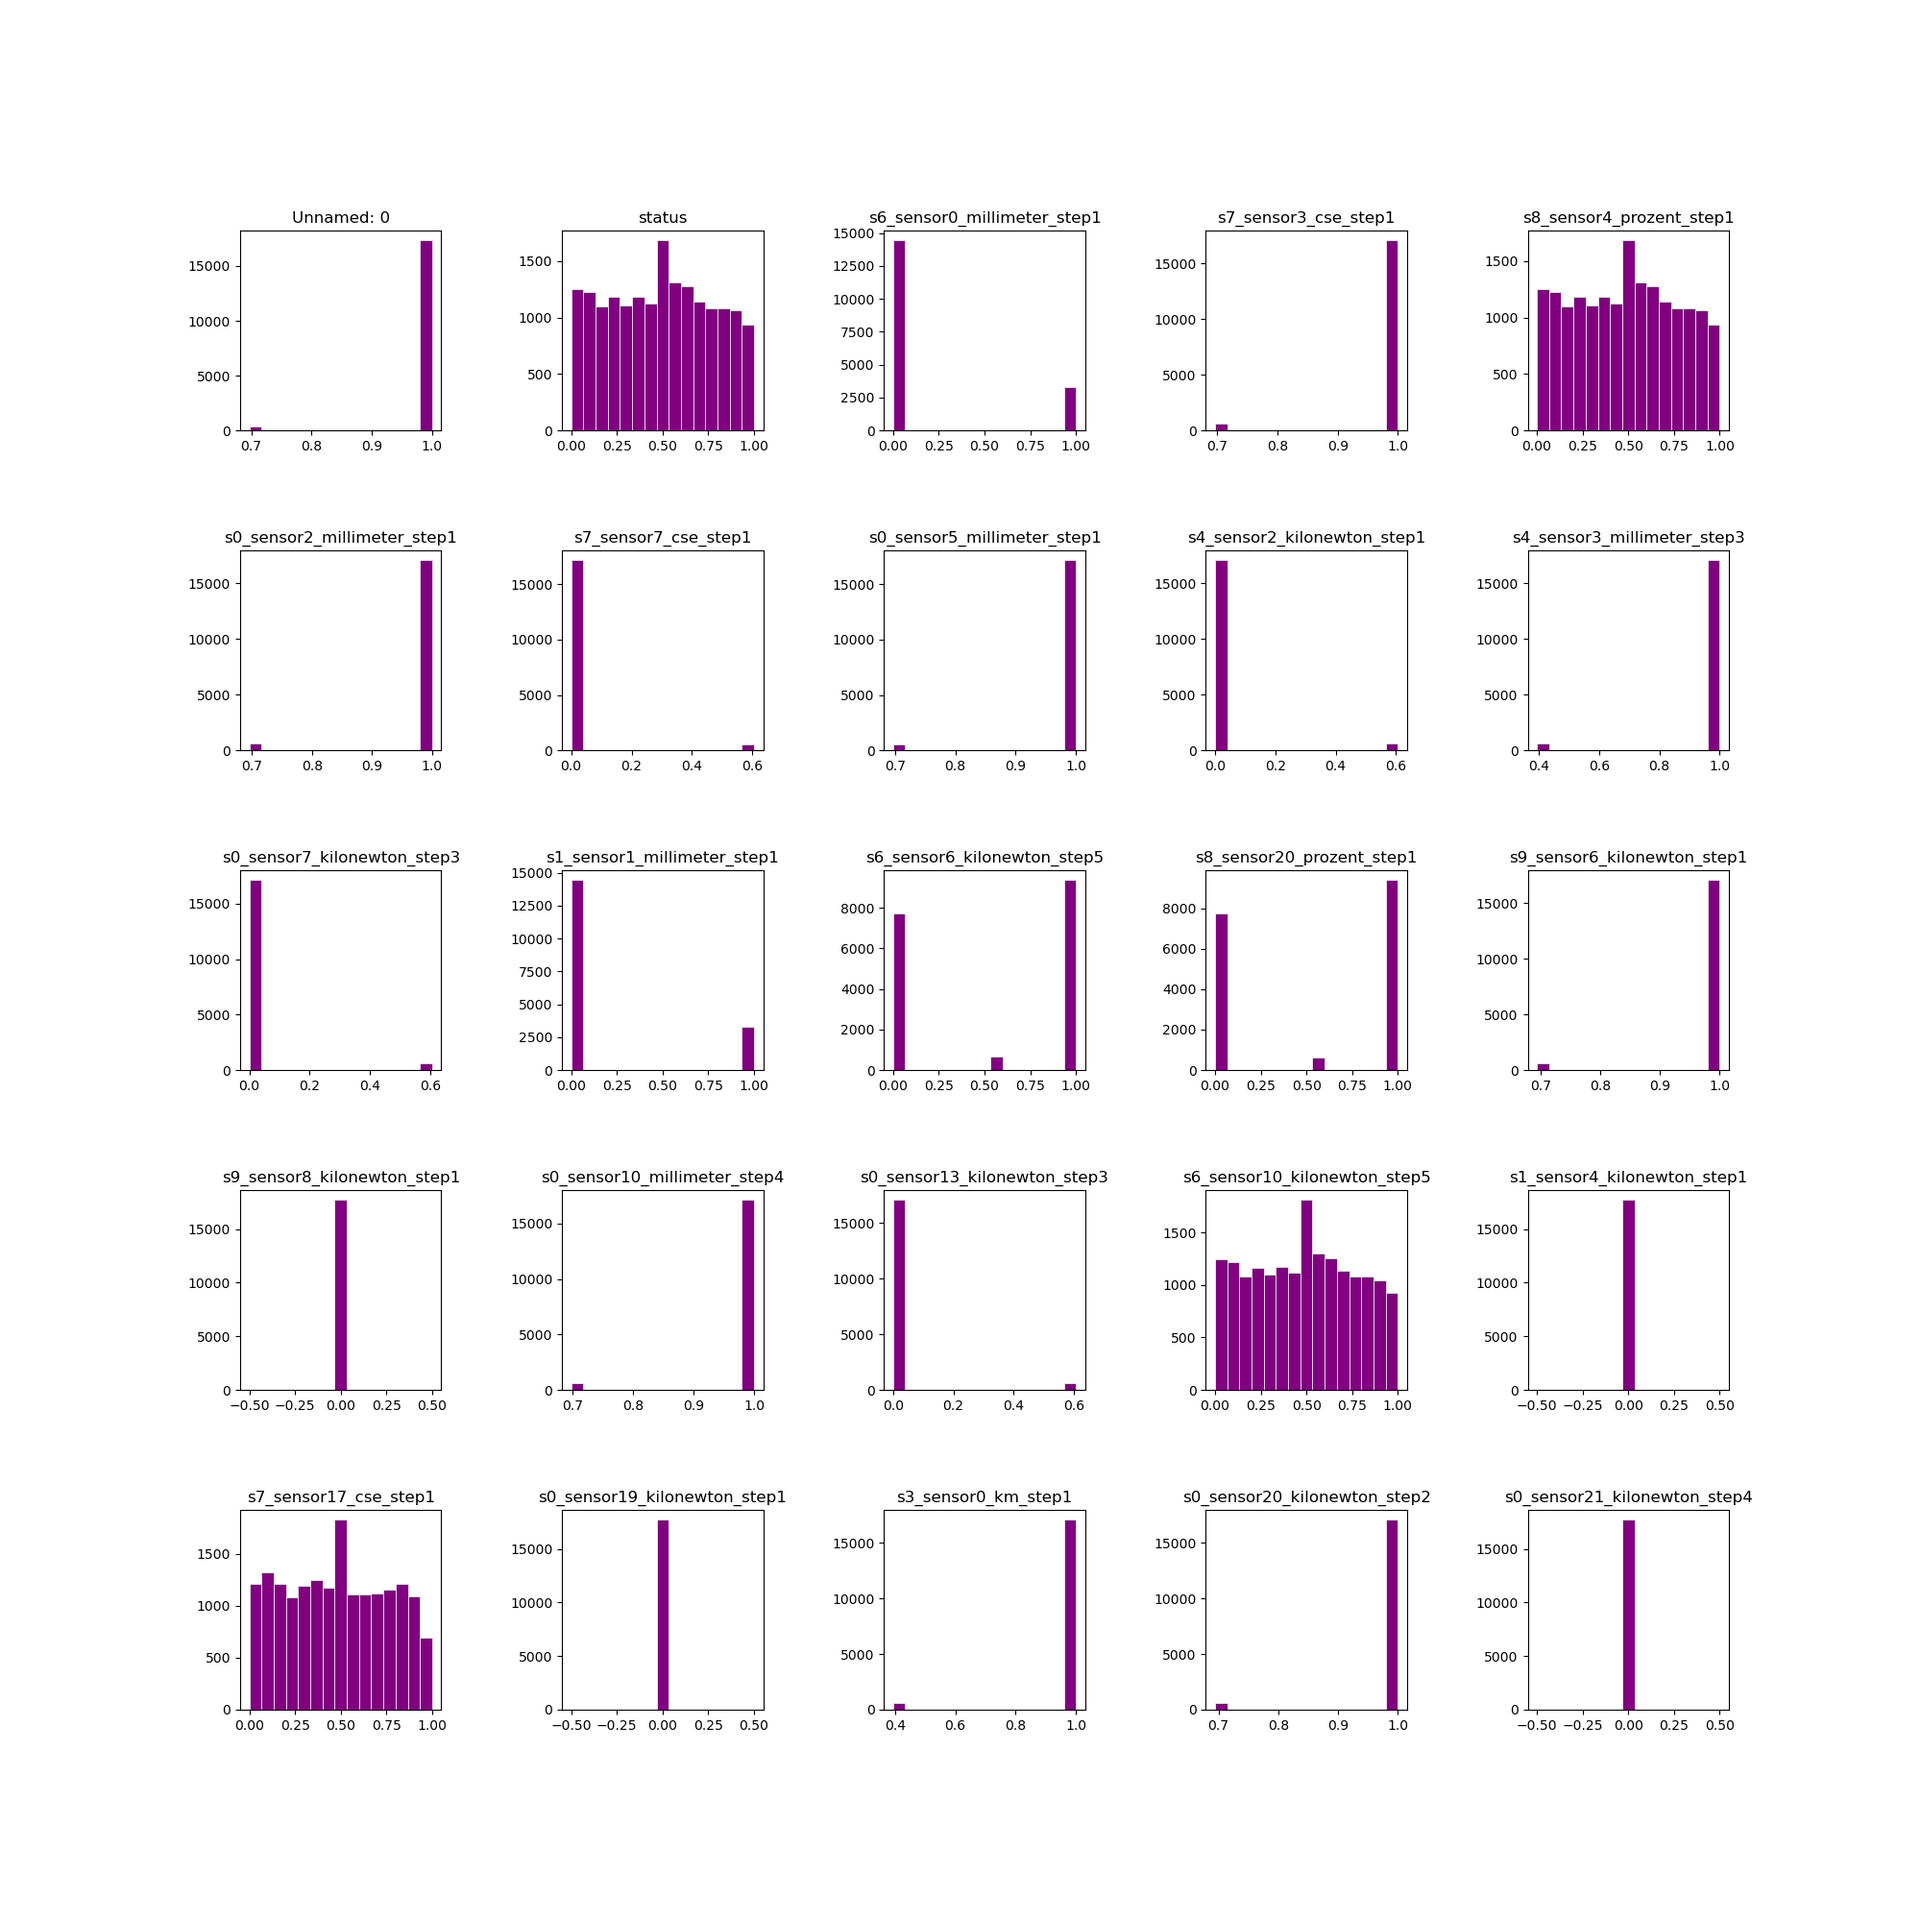
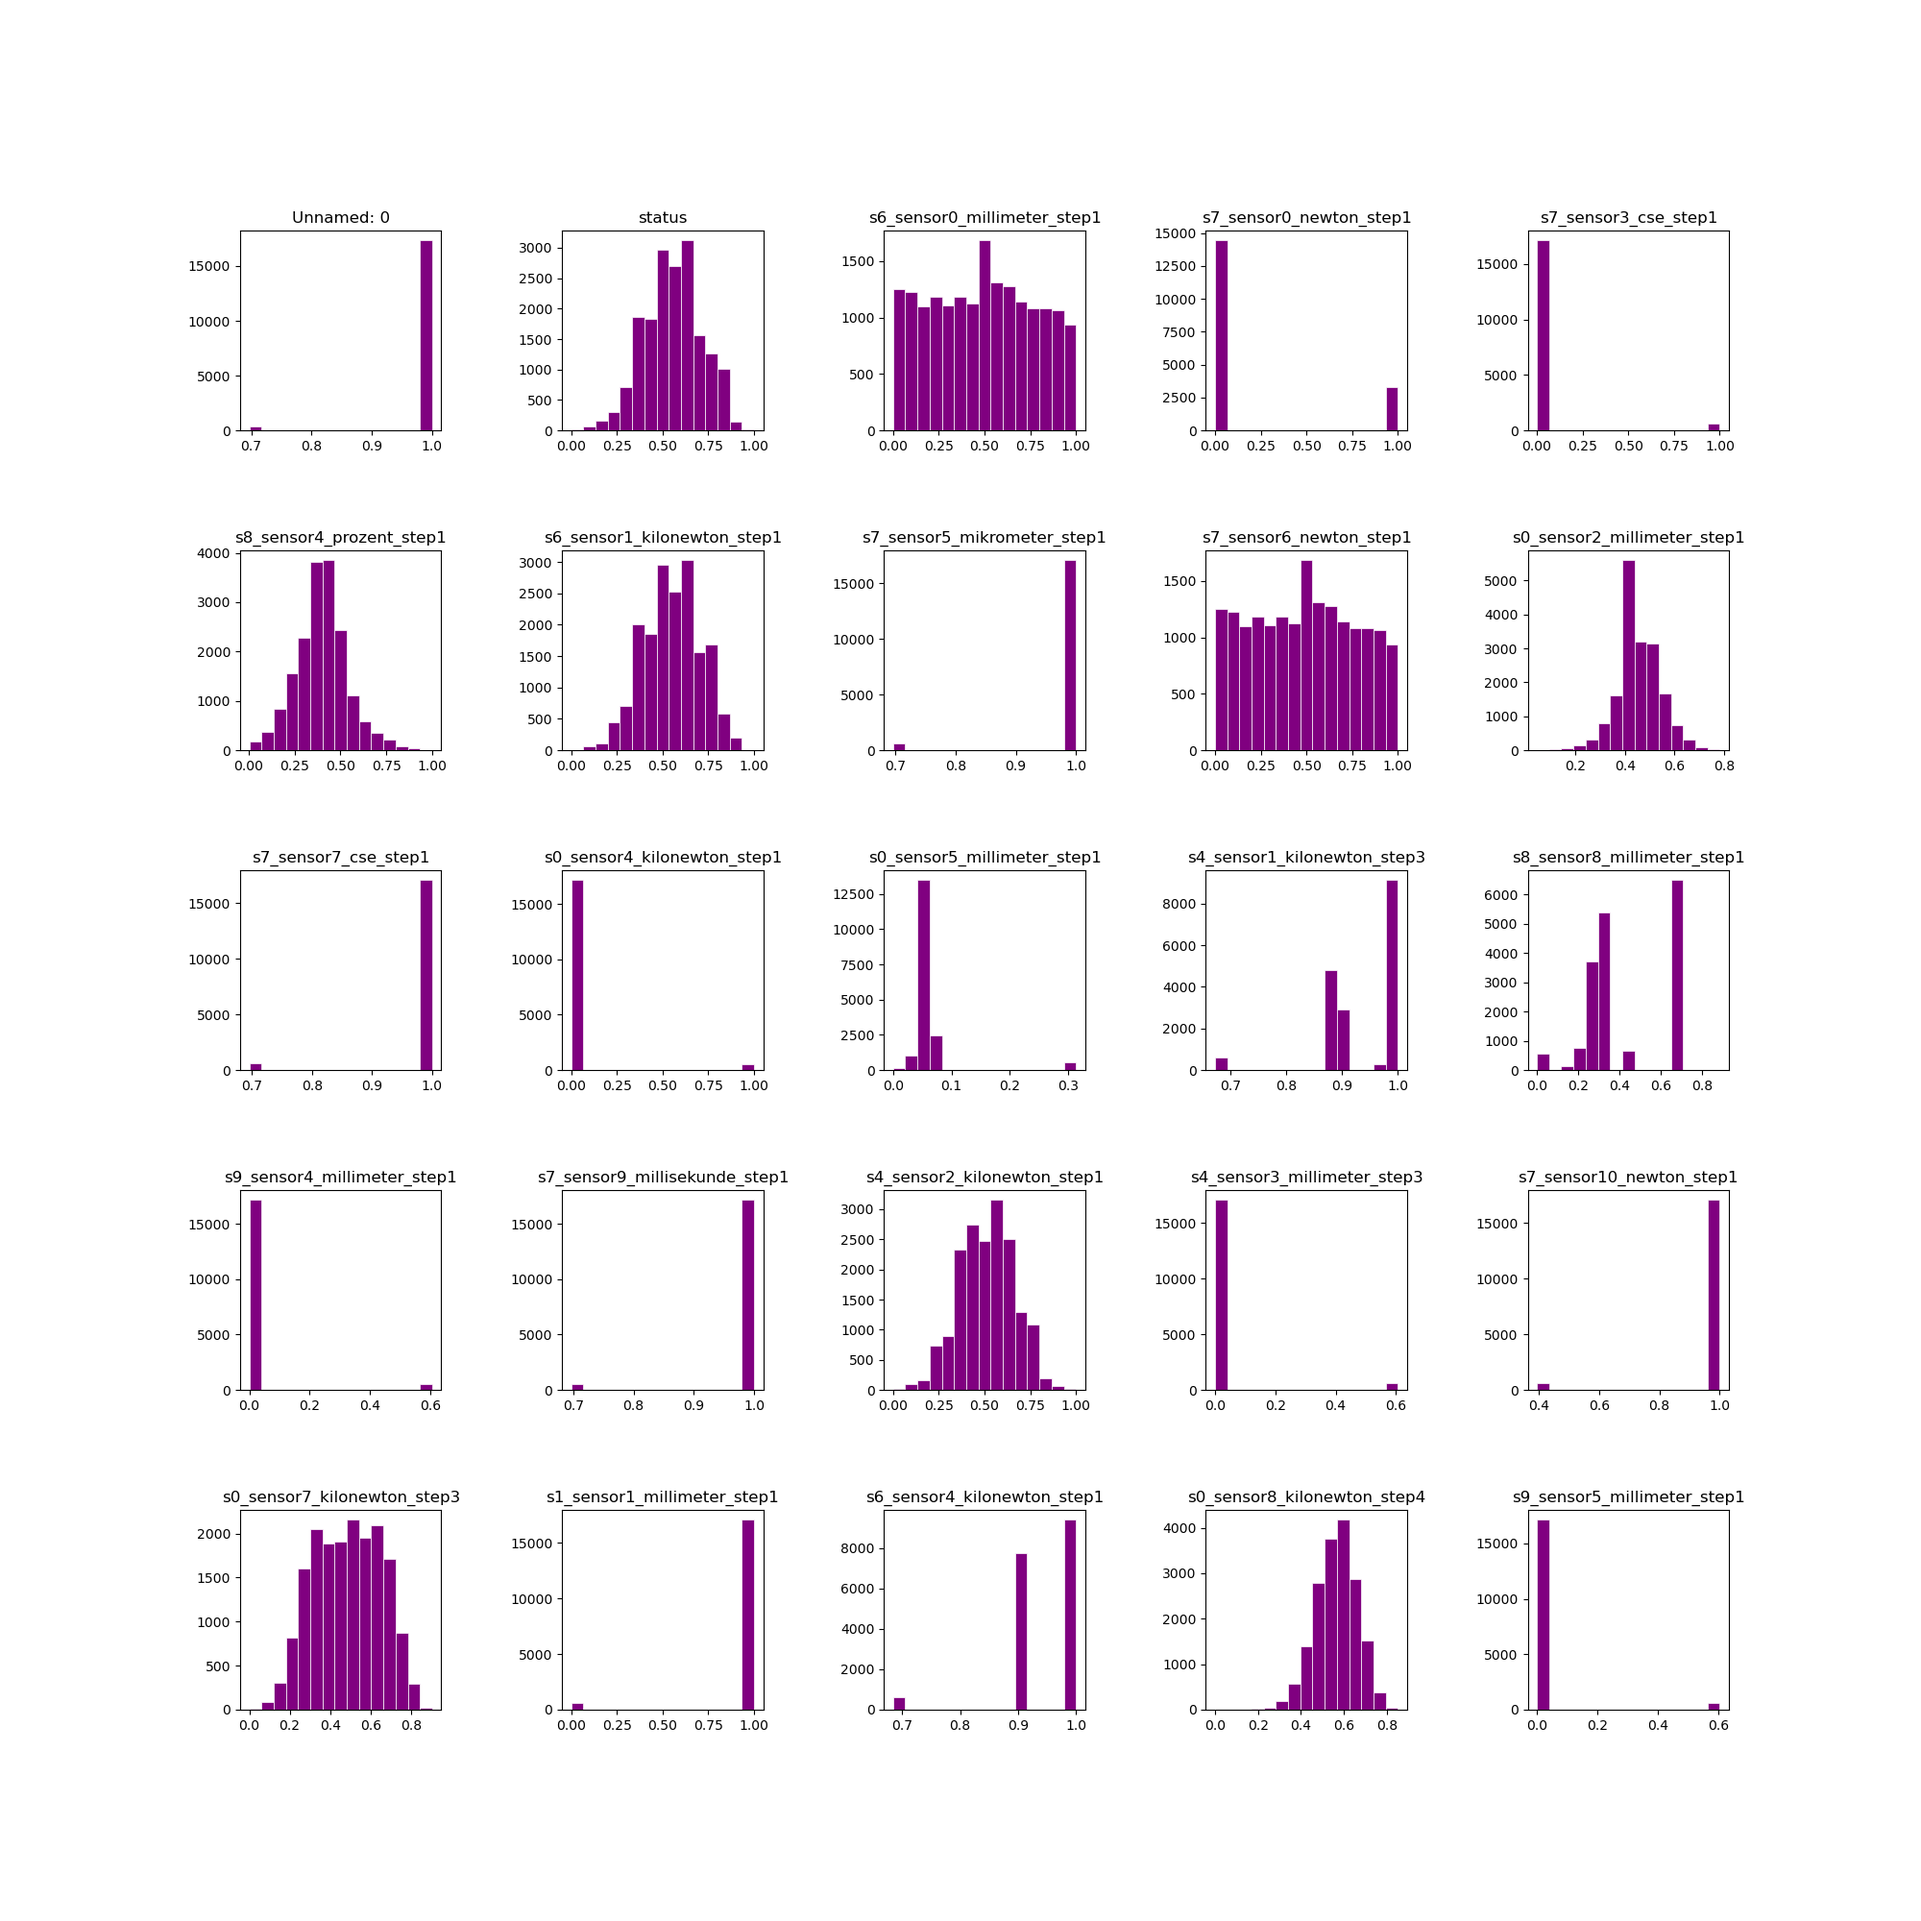
lowered the variance threshold

diff --git a/cleaner.py b/cleaner.py
@@ -57,7 +57,7 @@ df['status']=df['status'].map(mapping)
 df.to_csv("cleaned.csv")
 #VARIANCE FILTERING
 #our graph showed us a lot of columns with vary low variance. We dont need those
-low_variance_threshold = 0.05
+low_variance_threshold = 0.01
 columns_to_remove=[]
 for col_name, typ in dtypes.items():
     if(typ==my_type):
